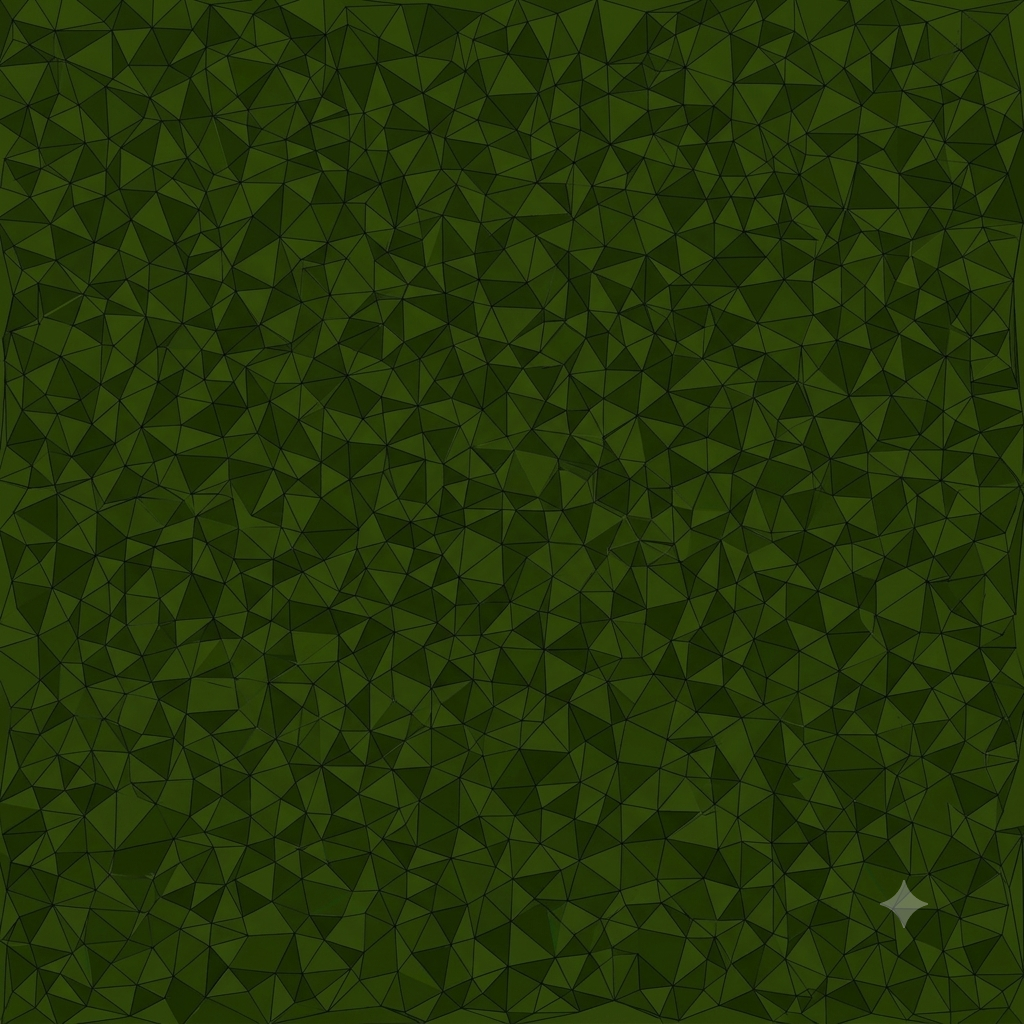
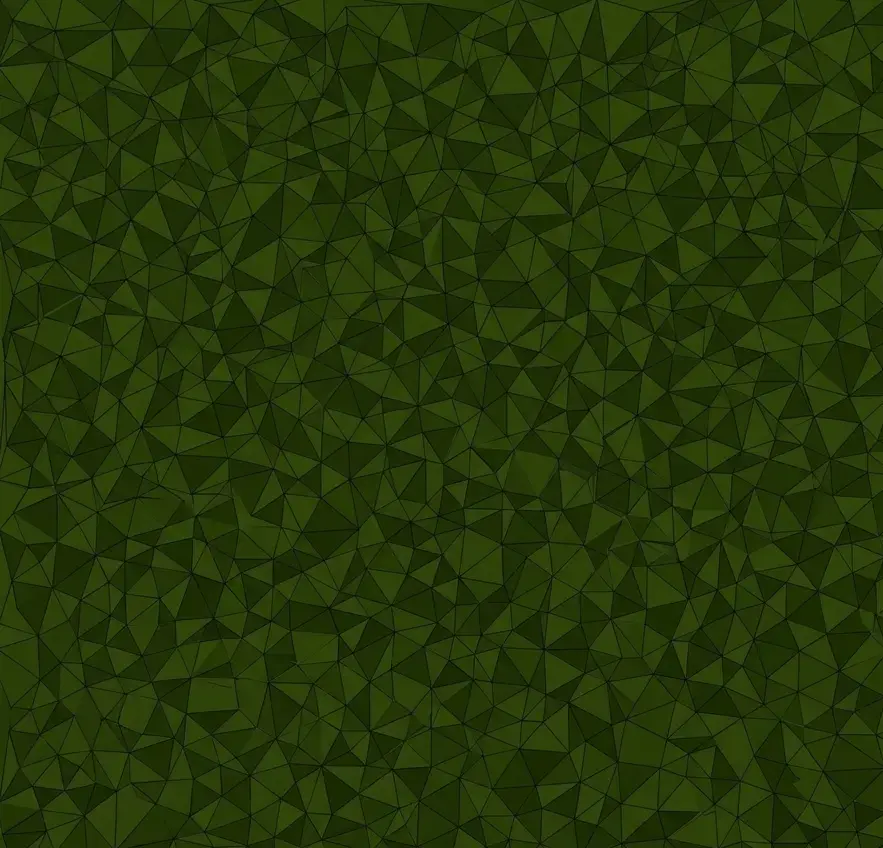
back changes

diff --git a/awd.html b/awd.html
@@ -28,14 +28,23 @@
             padding: 0;
         }
 
-        body {
-            font-family: 'Segoe UI', Tahoma, Geneva, Verdana, sans-serif;
+body {
+            color: var(--text-main);
             line-height: 1.6;
-            color: var(--text);
-            background-color: #2D7130;
             padding: 20px;
-        }
-
+        
+    /* Fallback color in case the image takes a moment to load */
+    background-color: #1c2e0e; 
+    
+    /* Using your provided file name */
+    background-image: url('back01.webp');
+    
+    /* Repeats the image to fill the screen */
+    background-repeat: repeat; 
+    
+    /* Optional: If the image is large, you can use 'cover' instead of 'repeat' */
+    /* background-size: cover; */
+}
         .container {
             max-width: 1000px;
             margin: 0 auto;
@@ -73,7 +82,7 @@
         }
 
         h2 {
-            color: var(--primary);
+            color: var(--primary-light);
             margin: 2.5rem 0 1.5rem;
             padding-bottom: 0.5rem;
             border-bottom: 2px solid var(--primary-light);
